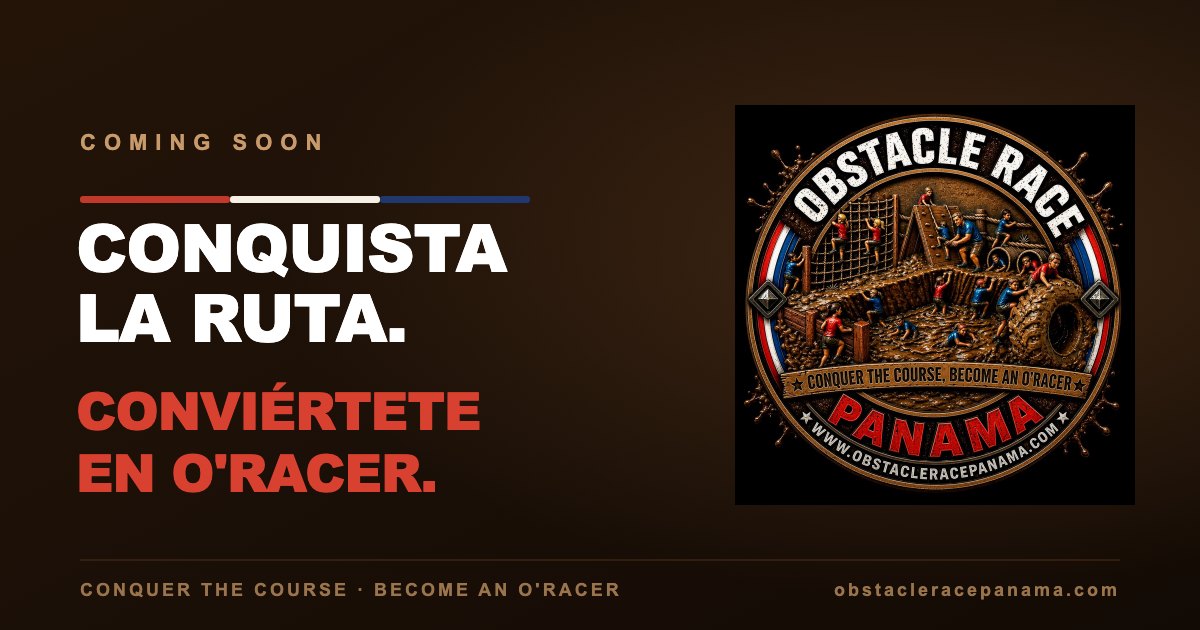
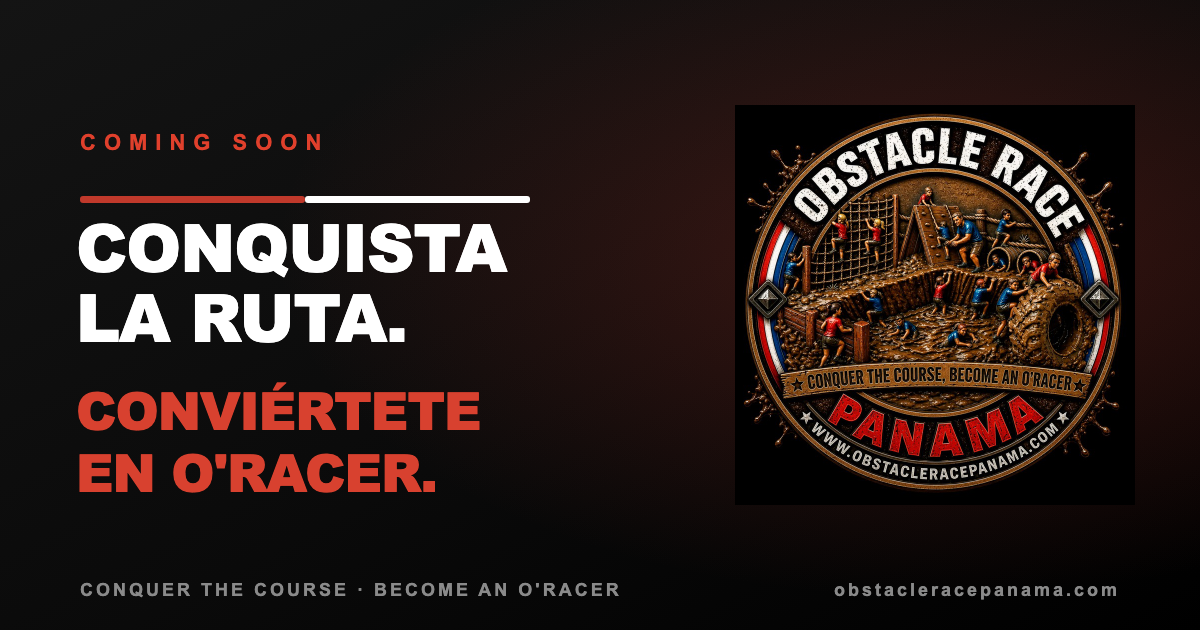
Recolor to black / red / white
Switch palette from chocolate to a black base with red + white accents
(Harley-style). The emblem's black background now blends seamlessly into
the page, so the JPEG logo needs no transparency. Red eyebrows, coming-soon,
active tab, accents; white/gray text; dark card slabs on black. Favicon and
OG image recolored to match.

Changed region(s): [[0.0617, 0.8746, 0.925, 0.9651], [0.185, 0.3016, 0.4625, 0.3317], [0.0617, 0.2111, 0.2775, 0.2413]]

diff --git a/index.html b/index.html
@@ -5,7 +5,7 @@
 <meta name="viewport" content="width=device-width, initial-scale=1.0" />
 <title>Obstacle Race Panamá — Conquer the course, become an O'Racer</title>
 <meta name="description" content="Obstacle Race Panamá — barro, fuerza y comunidad. La carrera de obstáculos que mueve a Panamá por algo más grande que nosotros. Próximamente. Regístrate, explora los recursos y súmate como patrocinador." />
-<meta name="theme-color" content="#160c05" />
+<meta name="theme-color" content="#000000" />
 <meta name="author" content="Obstacle Race Panamá" />
 <link rel="canonical" href="https://obstacleracepanama.com/" />
 <link rel="icon" href="/favicon.svg" type="image/svg+xml" />
@@ -58,19 +58,19 @@
 
 <style>
   :root{
-    --choco-950:#120a04;
-    --choco-900:#1a0f07;
-    --choco-800:#241408;
-    --choco-700:#2f1c0d;
-    --choco-600:#3d2513;
-    --choco-500:#4f3119;
-    --tan:#c69a6a;
-    --tan-dim:#9a744c;
-    --cream:#f6efe4;
+    --choco-950:#000000;
+    --choco-900:#0c0c0c;
+    --choco-800:#161616;
+    --choco-700:#1e1e1e;
+    --choco-600:#262626;
+    --choco-500:#333333;
+    --tan:#d0d0d0;
+    --tan-dim:#8a8a8a;
+    --cream:#f4f4f4;
     --white:#ffffff;
-    --muted:#b7a189;
+    --muted:#9a9a9a;
     --red:#c0392b;
-    --red-bright:#d8412f;
+    --red-bright:#e0402c;
     --blue:#21386e;
     --maxw:1120px;
     --ease:cubic-bezier(.2,.7,.2,1);
@@ -108,7 +108,7 @@
   .wrap{width:min(100% - 2.5rem, var(--maxw));margin-inline:auto}
   .eyebrow{
     font-family:var(--font-brutal);font-weight:700;text-transform:uppercase;
-    letter-spacing:.24em;font-size:.72rem;color:var(--tan);
+    letter-spacing:.24em;font-size:.72rem;color:var(--red-bright);
   }
   .read{font-family:var(--font-read)}
 
@@ -161,12 +161,12 @@
   #inicio:not([hidden]){min-height:calc(100svh - 66px);display:flex;align-items:center;justify-content:center}
   #inicio .bg{position:absolute;inset:0;z-index:0;
     background:
-      radial-gradient(60% 55% at 50% 34%, rgba(79,49,25,.5) 0%, transparent 70%),
-      radial-gradient(120% 90% at 50% 120%, rgba(18,10,4,.9) 40%, transparent 100%),
-      linear-gradient(180deg,var(--choco-900),var(--choco-950));}
+      radial-gradient(55% 50% at 50% 33%, rgba(192,57,43,.16) 0%, transparent 68%),
+      radial-gradient(120% 90% at 50% 120%, #000 45%, transparent 100%),
+      linear-gradient(180deg,#0c0c0c,#000);}
   #inicio .inner{position:relative;z-index:2;display:flex;flex-direction:column;align-items:center;gap:1.3rem}
   .coming-soon{font-family:var(--font-brutal);font-weight:700;text-transform:uppercase;
-    letter-spacing:.42em;font-size:.82rem;color:var(--tan)}
+    letter-spacing:.42em;font-size:.82rem;color:var(--red-bright)}
   @keyframes pulse{0%{box-shadow:0 0 0 0 rgba(192,57,43,.5)}70%{box-shadow:0 0 0 12px rgba(192,57,43,0)}100%{box-shadow:0 0 0 0 rgba(192,57,43,0)}}
   .emblem{width:min(72vw,340px);height:auto;filter:drop-shadow(0 22px 46px rgba(0,0,0,.65));animation:rise 1s var(--ease) both}
   @keyframes rise{from{opacity:0;transform:translateY(24px) scale(.96)}to{opacity:1;transform:none}}
